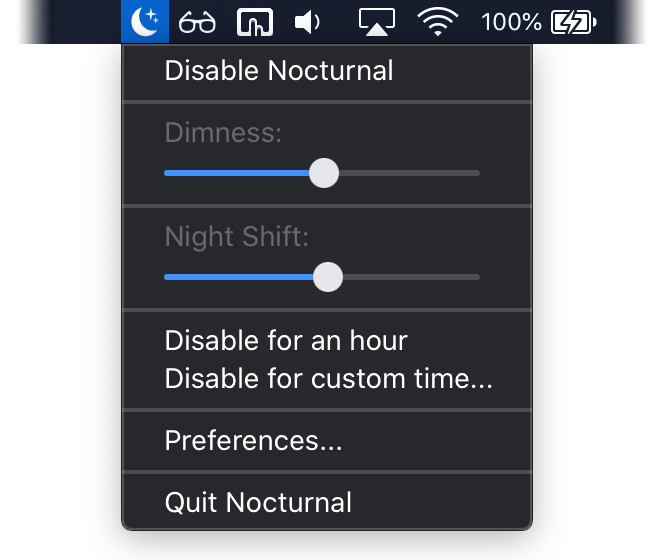
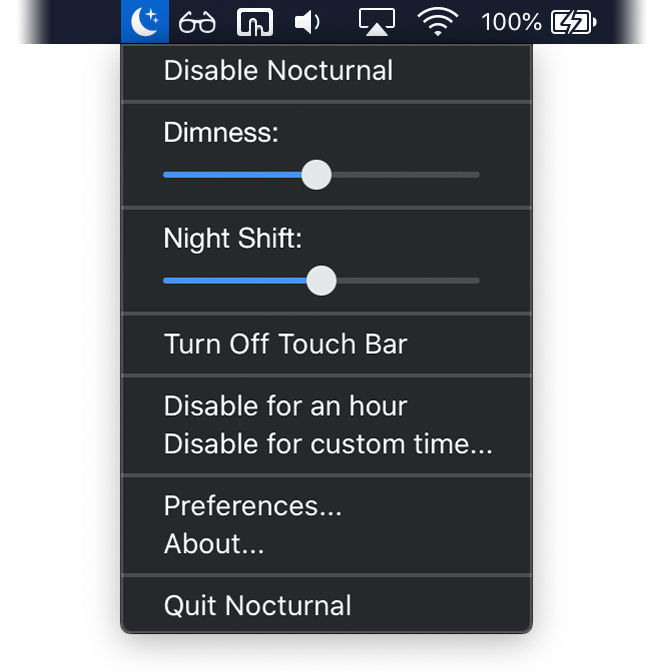
Update about window and refactor project structure (#20)

Changed region(s): [[0.0303, 0.0, 0.9682, 0.9714]]

diff --git a/Nocturnal/Application/Menu/MenuController.swift b/Nocturnal/Application/Menu/MenuController.swift
@@ -10,16 +10,16 @@ import Cocoa
 
 class MenuController: NSMenu, NSMenuDelegate {
     @IBOutlet var timerMenuItem: NSMenuItem!
-    @IBOutlet var nightShiftSliderView: NightShiftSliderView!
-    @IBOutlet var dimnessSliderView: DimnessSliderView!
     @IBOutlet var disableMenuItem: NSMenuItem!
+    @IBOutlet var dimnessLabel: NSMenuItem!
+    @IBOutlet var dimnessSliderView: DimnessSliderView!
+    @IBOutlet var nightShiftLabel: NSMenuItem!
+    @IBOutlet var nightShiftSliderView: NightShiftSliderView!
     @IBOutlet var disableHourMenuItem: NSMenuItem!
     @IBOutlet var disableCustomMenuItem: NSMenuItem!
     @IBOutlet var turnOffTouchBarMenuItem: NSMenuItem!
-    @IBOutlet var preferencesMenuItem: NSMenuItem!
 
     let statusItem = NSStatusBar.system.statusItem(withLength: NSStatusItem.variableLength)
-    var storyboard = NSStoryboard(name: "Main", bundle: nil)
     var nightShiftSliderMenuItem: NSMenuItem!
     var dimnessSliderMenuItem: NSMenuItem!
     let calendar = NSCalendar(identifier: .gregorian)!
@@ -28,11 +28,9 @@ class MenuController: NSMenu, NSMenuDelegate {
         delegate = self
         setStatusMenuIcon()
         statusItem.menu = self
-        timerMenuItem.isEnabled = false
         timerMenuItem.isHidden = true
-        setupNightShiftSliderMenuItem()
-        setupDimnessSliderMenuItem()
-
+        setupNightShiftMenuItems()
+        setupDimnessMenuItems()
         // Check if Mac supports TouchBar
         if NSClassFromString("NSTouchBar") == nil {
             turnOffTouchBarMenuItem.isEnabled = false
@@ -92,16 +90,19 @@ class MenuController: NSMenu, NSMenuDelegate {
         }
     }
 
-    func setupNightShiftSliderMenuItem() {
-        nightShiftSliderView.setup()
-        nightShiftSliderMenuItem = item(withTitle: "Night Shift Slider")
-        nightShiftSliderMenuItem.view = nightShiftSliderView
-    }
-
-    func setupDimnessSliderMenuItem() {
+    func setupDimnessMenuItems() {
+        dimnessLabel.attributedTitle = NSAttributedString(string: "Dimness:", attributes: [NSAttributedString.Key.font: NSFont.systemFont(ofSize: 14), NSAttributedString.Key.foregroundColor: Utils.getGrayscaleColorForAppearance()])
         dimnessSliderView.setup()
         dimnessSliderMenuItem = item(withTitle: "Dimness Slider")
         dimnessSliderMenuItem.view = dimnessSliderView
+    }
+    
+    func setupNightShiftMenuItems() {
+        nightShiftLabel.attributedTitle = NSAttributedString(string: "Night Shift:", attributes: [NSAttributedString.Key.font: NSFont.systemFont(ofSize: 14), NSAttributedString.Key.foregroundColor: Utils.getGrayscaleColorForAppearance()])
+               timerMenuItem.isEnabled = false
+        nightShiftSliderView.setup()
+        nightShiftSliderMenuItem = item(withTitle: "Night Shift Slider")
+        nightShiftSliderMenuItem.view = nightShiftSliderView
     }
 
     func setTimerText(_ isTimerEnabled: Bool) {
@@ -182,10 +183,10 @@ class MenuController: NSMenu, NSMenuDelegate {
     }
 
     @IBAction func disableCustomTimeClicked(_ sender: NSMenuItem) {
-        let disableCustomTimeWindow = storyboard.instantiateController(withIdentifier: "Custom Time Window Controller") as! CustomTimeWindowController
         if disableCustomMenuItem.state == .off {
             NSApp.activate(ignoringOtherApps: true)
             if !StateManager.isCustomTimeWindowOpen {
+                let disableCustomTimeWindow = Utils.getWindowControllerFromStoryboard(identifier: "Custom Time Window Controller", floating: true)
                 disableCustomTimeWindow.showWindow(sender)
             }
         } else {
@@ -195,25 +196,17 @@ class MenuController: NSMenu, NSMenuDelegate {
     }
 
     @IBAction func preferencesClicked(_ sender: NSMenuItem) {
-        let preferencesWindowController = storyboard.instantiateController(withIdentifier: "Preferences Window Controller") as! NSWindowController
         NSApp.activate(ignoringOtherApps: true)
-        if let window = preferencesWindowController.window {
-            window.center()
-            window.styleMask = [.titled, .closable]
-        }
         if !StateManager.isPreferencesWindowOpen {
-            preferencesWindowController.showWindow(sender)
+            let aboutWindowController = Utils.getWindowControllerFromStoryboard(identifier: "Preferences Window Controller")
+            aboutWindowController.showWindow(sender)
         }
     }
 
     @IBAction func aboutClicked(_ sender: NSMenuItem) {
-        let aboutWindowController = storyboard.instantiateController(withIdentifier: "About Window Controller") as! NSWindowController
         NSApp.activate(ignoringOtherApps: true)
-        if let window = aboutWindowController.window {
-            window.center()
-            window.styleMask = [.titled, .closable]
-        }
         if !StateManager.isAboutWindowOpen {
+            let aboutWindowController = Utils.getWindowControllerFromStoryboard(identifier: "About Window Controller")
             aboutWindowController.showWindow(sender)
         }
     }

diff --git a/Nocturnal/Utils/Utils.swift b/Nocturnal/Utils/Utils.swift
@@ -1,0 +1,77 @@
+//
+//  Utils.swift
+//  Nocturnal
+//
+//  Created by Joshua Jon on 6/7/20.
+//  Copyright © 2020 Joshua Jon. All rights reserved.
+//
+
+import Foundation
+
+class Utils {
+    @objc func openNightShiftInfo() {
+        Utils.openUrl(url: "https://support.apple.com/en-us/HT207513#requirements")
+        NSApplication.shared.terminate(self)
+    }
+
+    static func verifySupportsNightShift() {
+        if !NightShift.supportsNightShift {
+            NSApplication.shared.activate(ignoringOtherApps: true)
+            let message = "Your Mac does not support Night Shift"
+            let info = "A newer Mac is required to use Nocturnal. To view the list of all compatible Macs click the 'More info...' button."
+            let alert = Utils.createAlert(message, info)
+            alert.addButton(withTitle: "More info...")
+            alert.buttons[1].target = self
+            alert.buttons[1].action = #selector(openNightShiftInfo)
+            alert.runModal()
+            NSApplication.shared.terminate(self)
+        }
+    }
+
+    static func verifyMacOsVersion() {
+        if !ProcessInfo().isOperatingSystemAtLeast(OperatingSystemVersion(majorVersion: 10, minorVersion: 15, patchVersion: 0)) {
+            NSApplication.shared.activate(ignoringOtherApps: true)
+            let version = ProcessInfo().operatingSystemVersionString
+            let message = "Nocturnal is not supported on this version of macOS"
+            let info = "\(version) does not support Nocturnal. Please update macOS to version 10.15 (Catalina) or higher."
+            let alert = Utils.createAlert(message, info)
+            alert.runModal()
+            NSApplication.shared.terminate(self)
+        }
+    }
+
+    static func openUrl(url: String) {
+        if let validUrl = URL(string: url) {
+            NSWorkspace.shared.open(validUrl)
+        }
+    }
+
+    public static func getGrayscaleColorForAppearance() -> NSColor {
+        let gray = NSColor.gray
+        guard let appearance = UserDefaults.standard.string(forKey: "AppleInterfaceStyle") else { return gray }
+        // Custom colors required as default white and black do not take effect in menu
+        let white = NSColor(red: 1.0, green: 1.0, blue: 1.0, alpha: 1.0)
+        let black = NSColor(red: 0, green: 0, blue: 0, alpha: 0.7)
+        return appearance == "Dark" ? white : black
+    }
+
+    static func createAlert(_ message: String, _ info: String) -> NSAlert {
+        let alert: NSAlert = NSAlert()
+        alert.alertStyle = NSAlert.Style.warning
+        alert.messageText = message
+        alert.informativeText = info
+        alert.addButton(withTitle: "Okay")
+        return alert
+    }
+
+    static func getWindowControllerFromStoryboard(identifier: String, floating: Bool = false) -> NSWindowController {
+        let storyboard = NSStoryboard(name: "Main", bundle: nil)
+        let windowController = storyboard.instantiateController(withIdentifier: identifier) as! NSWindowController
+        if let window = windowController.window {
+            window.center()
+            window.styleMask = [.titled, .closable]
+            if floating { window.level = .floating }
+        }
+        return windowController
+    }
+}

diff --git a/Nocturnal/Application/Main/AppDelegate.swift b/Nocturnal/Application/Main/AppDelegate.swift
@@ -13,8 +13,8 @@ class AppDelegate: NSObject, NSApplicationDelegate {
     static var dimnessControllers = [] as [DimnessWindowController]
 
     func applicationDidFinishLaunching(_: Notification) {
-        verifyMacOsVersion()
-        verifySupportsNightShift()
+        Utils.verifyMacOsVersion()
+        Utils.verifySupportsNightShift()
         initDimnessControllers()
         NightShift.strength = 0
         NightShift.enable()
@@ -48,47 +48,5 @@ class AppDelegate: NSObject, NSApplicationDelegate {
             do { sleep(1) } // Wait for macOS to init TouchBar
             TouchBar.hideTouchBar()
         }
-    }
-
-    func verifyMacOsVersion() {
-        if !ProcessInfo().isOperatingSystemAtLeast(OperatingSystemVersion(majorVersion: 10, minorVersion: 15, patchVersion: 0)) {
-            NSApplication.shared.activate(ignoringOtherApps: true)
-            let version = ProcessInfo().operatingSystemVersionString
-            let message = "Nocturnal is not supported on this version of macOS"
-            let info = "\(version) does not support Nocturnal. Please update macOS to version 10.15 (Catalina) or higher."
-            let alert = createAlert(message, info)
-            alert.runModal()
-            NSApplication.shared.terminate(self)
-        }
-    }
-
-    func verifySupportsNightShift() {
-        if !NightShift.supportsNightShift {
-            NSApplication.shared.activate(ignoringOtherApps: true)
-            let message = "Your Mac does not support Night Shift"
-            let info = "A newer Mac is required to use Nocturnal. To view the list of all compatible Macs click the 'More info...' button."
-            let alert = createAlert(message, info)
-            alert.addButton(withTitle: "More info...")
-            alert.buttons[1].target = self
-            alert.buttons[1].action = #selector(moreInfo)
-            alert.runModal()
-            NSApplication.shared.terminate(self)
-        }
-    }
-
-    func createAlert(_ message: String, _ info: String) -> NSAlert {
-        let alert: NSAlert = NSAlert()
-        alert.alertStyle = NSAlert.Style.warning
-        alert.messageText = message
-        alert.informativeText = info
-        alert.addButton(withTitle: "Okay")
-        return alert
-    }
-
-    @objc func moreInfo() {
-        if let url = URL(string: "https://support.apple.com/en-us/HT207513#requirements") {
-            NSWorkspace.shared.open(url)
-        }
-        NSApplication.shared.terminate(self)
     }
 }

diff --git a/Nocturnal/Utils/Shortcuts.swift b/Nocturnal/Utils/Shortcuts.swift
@@ -8,7 +8,7 @@
 
 import Foundation
 
-enum Shortcuts {
+class Shortcuts {
     static let increaseDimness = "increaseDimness"
     static let decreaseDimness = "decreaseDimness"
     static let increaseNightShift = "increaseNightShiftShortcut"
@@ -18,7 +18,7 @@ enum Shortcuts {
     static let disableHour = "disableHour"
     static let disableCustom = "decreaseNightShiftShortcut"
     static let isInitialized = "isInitialized"
-    
+
     static func setupShortcuts() {
         // Increase Dimness
         MASShortcutBinder.shared().bindShortcut(withDefaultsKey: Shortcuts.increaseDimness) {
@@ -69,29 +69,5 @@ enum Shortcuts {
                 StateManager.respond(to: .userEnabledNocturnal)
             }
         }
-    }
-}
-
-class Preferences {
-    private let isAutoLaunchEnabled = "isAutoLaunchEnabled"
-    private let userDefaults = UserDefaults.standard
-
-    private init() {
-        registerFactoryDefaults()
-    }
-
-    private func registerFactoryDefaults() {
-        let factoryDefaults = [isAutoLaunchEnabled: NSNumber(value: false)] as [String: Any]
-
-        userDefaults.register(defaults: factoryDefaults)
-    }
-
-    func synchronize() {
-        userDefaults.synchronize()
-    }
-
-    func reset() {
-        userDefaults.removeObject(forKey: isAutoLaunchEnabled)
-        synchronize()
     }
 }

diff --git a/Nocturnal/Utils/StateManager.swift b/Nocturnal/Utils/StateManager.swift
@@ -69,11 +69,11 @@ enum StateManager {
         get { return preferencesWindowOpen }
         set { preferencesWindowOpen = newValue }
     }
-    
+
     static var isAboutWindowOpen: Bool {
-           get { return aboutWindowOpen }
-           set { aboutWindowOpen = newValue }
-       }
+        get { return aboutWindowOpen }
+        set { aboutWindowOpen = newValue }
+    }
 
     static var isTimerEnabled: Bool {
         return disableTimer != .off
@@ -121,7 +121,7 @@ enum StateManager {
         case .userDisabledTouchBar:
             isTouchBarOff = false
         case .disableTimerStarted:
-                isNocturnalEnabled = false
+            isNocturnalEnabled = false
         case .disableTimerEnded:
             isNocturnalEnabled = true
         }

diff --git a/Nocturnal/Utils/NightShift.swift b/Nocturnal/Utils/NightShift.swift
@@ -30,7 +30,7 @@ enum NightShift {
 
     static func previewStrength(_ value: Float) {
         // Check if user manually disabled Night Shift
-        if (!isNightShiftEnabled) { isNightShiftEnabled = true }
+        if !isNightShiftEnabled { isNightShiftEnabled = true }
         client.setStrength(value, commit: false)
     }
 
@@ -47,7 +47,5 @@ enum NightShift {
         isNightShiftEnabled = false
     }
 
-    static var supportsNightShift: Bool {
-        get { return CBBlueLightClient.supportsBlueLightReduction() }
-    }
+    static var supportsNightShift: Bool { return CBBlueLightClient.supportsBlueLightReduction() }
 }

diff --git a/Nocturnal/Application/Preferences/AboutViewController.swift b/Nocturnal/Application/Preferences/AboutViewController.swift
@@ -20,4 +20,8 @@ class AboutViewController: NSViewController {
     override func viewWillDisappear() {
         StateManager.isAboutWindowOpen = false
     }
+    
+    @IBAction func donateButtonClicked(_ sender: NSButton) {
+        Utils.openUrl(url: "https://www.paypal.me/joshuajon")
+    }
 }

diff --git a/Nocturnal/Application/TouchBar/TouchBar.swift b/Nocturnal/Application/TouchBar/TouchBar.swift
@@ -8,7 +8,7 @@
 
 import Foundation
 
-struct TouchBar {
+class TouchBar {
     private static let blankTouchBar = NSTouchBar()
 
     static func hideTouchBar() {

diff --git a/README.md b/README.md
@@ -1,3 +1,6 @@
+[![Swift Version](https://img.shields.io/badge/swift-5.0-lightgrey.svg)](https://swift.org/)
+[![macOS Version](https://img.shields.io/badge/macOS->=10.15%20Catalina-lightgrey.svg)](https://www.apple.com/macos/catalina/)
+[![License: GPL v3](https://img.shields.io/badge/License-GPLv3-lightgrey.svg)](https://www.gnu.org/licenses/gpl-3.0)
 <p align="center">
   <br>
   <img src="Nocturnal/Assets.xcassets/AppIcon.appiconset/Icon-App-256x256@1x.png" alt="icon" height="145">
@@ -12,24 +15,31 @@
 Nocturnal is a menu bar app for macOS that allows you to go the extra mile in controlling your display settings to reduce strain on your eyes. It includes darker than dark dimming, Night Shift fine tuning, multi-monitor support, and the ability to turn off TouchBar on Macbook Pro.
 
 <p align="center">
-<img src="Docs/Images/Nocturnal-Screenshot.png" alt="icon" height="300">
+<img src="Docs/Images/Nocturnal-Screenshot.png" alt="icon" height="350">
 </p>
 
 ### System Requirements
 
-Nocturnal is only supported on macOS Catalina 10.15 or later, and requires one of the computers listed [here](https://support.apple.com/en-us/HT207513#requirements).
+Nocturnal is only supported on macOS Catalina 10.15 or later, and requires a Mac that supports [Night Shift](https://support.apple.com/en-us/HT207513#requirements).
 
 ### Installation
 
 Download the latest version of Nocturnal from the [GitHub releases page](https://github.com/joshjon/nocturnal/releases).
 
-**Releases are not currently signed with an Apple developer key. To open an unsigned app follow these steps.**
+**Releases are not currently signed with an Apple developer account. To open an unsigned app follow these steps.**
 
 1. Control-click the app icon, then choose Open from the shortcut menu.
 2. A dialog box will appear, then click Open.
 
 For more information refer to the offical [Apple support article](https://support.apple.com/en-au/guide/mac-help/mh40616/mac).
 
+### Donate
+
+Nocturnal will always be free and open source, however, please consider donating if you enjoy using the app.
+
+<a href="https://www.paypal.me/joshuajon/">
+  <img alt="PayPal Donation" src=".github/donate.svg" width="150">
+</a>
 
 ### Build and Run
 
